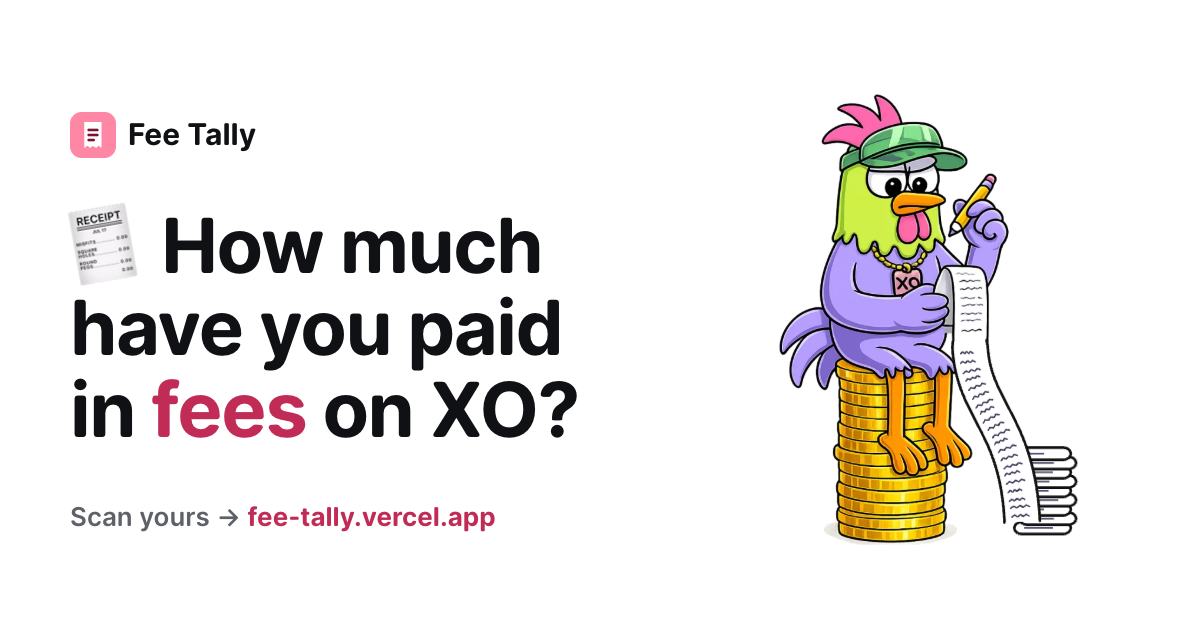
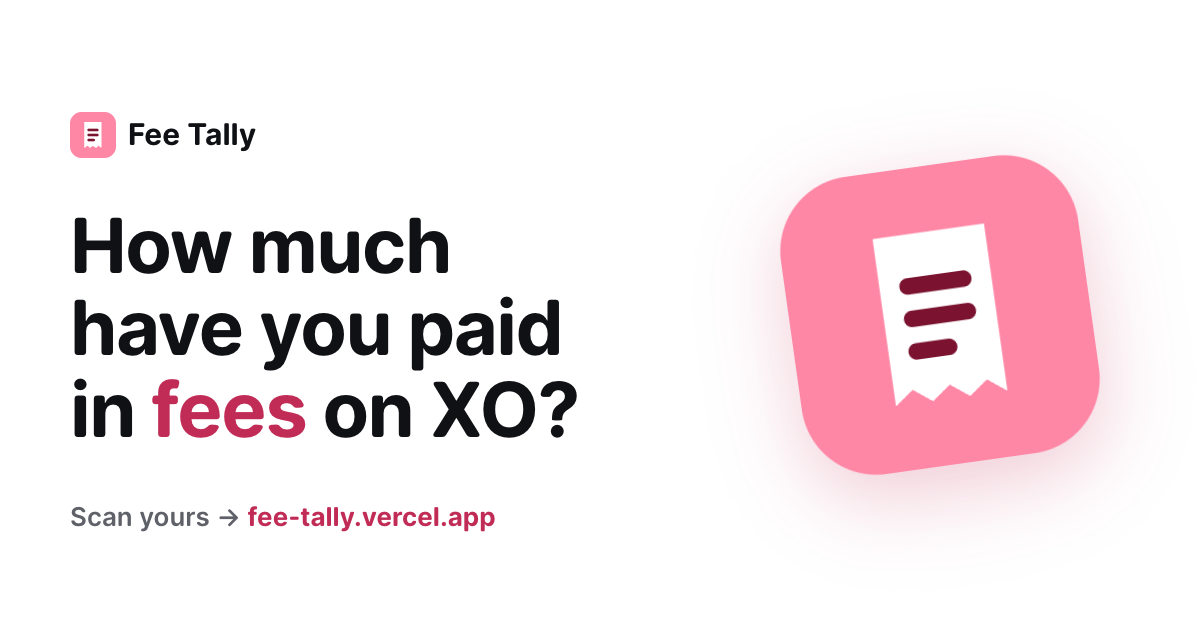
Mascot off for now: hero, card and link preview without it

Changed region(s): [[0.6475, 0.1508, 0.925, 0.8746], [0.0617, 0.3317, 0.4625, 0.4524]]

diff --git a/index.html b/index.html
@@ -93,9 +93,8 @@
   .btn svg { width: 16px; height: 16px; }
 
   /* hero */
-  .hero { margin-top: 20px; padding: 28px; display: grid; grid-template-columns: minmax(0,1fr) 330px; gap: 24px; align-items: center; position: relative; z-index: 5; }
+  .hero { margin-top: 20px; padding: 28px; display: grid; grid-template-columns: minmax(0,1fr); gap: 24px; position: relative; z-index: 5; }
   .hero-main { display: grid; gap: 18px; min-width: 0; }
-  .hero-art { align-self: stretch; display: grid; place-items: center; }
   .mascot { width: 330px; height: auto; aspect-ratio: 1; display: block; overflow: visible; } /* the rooster itself stays still: only his pencil hand and the receipt move */
   /* the pencil hand: an idle tap now and then, fast scribbling while the scan runs */
   .mascot .hand { transform-box: view-box; transform-origin: 720px 350px; animation: tap 3.2s ease-in-out infinite; }
@@ -108,8 +107,6 @@
   .fc-art .fold { fill: #fff; stroke: #111; stroke-width: 6; stroke-linejoin: round; }
   .mascot .fold { fill: #fff; stroke: #111; stroke-width: 6; stroke-linejoin: round; transform-box: fill-box; transform-origin: 50% 100%; animation: fold .35s cubic-bezier(.2,1.6,.4,1) both; }
   @keyframes fold { from { transform: scale(.6, .2); opacity: 0; } to { transform: none; opacity: 1; } }
-  @media (max-width: 860px) { .hero { grid-template-columns: minmax(0,1fr) 240px; } .mascot { width: 240px; } }
-  @media (max-width: 640px) { .hero { grid-template-columns: minmax(0,1fr); } .hero-art { order: -1; margin: -14px 0 -14px; } .mascot { width: 200px; } }
   h1 { font-size: clamp(28px, 4.6vw, 42px); line-height: 1.08; font-weight: 700; letter-spacing: -.02em; text-wrap: balance; max-width: 18ch; }
   h1 em { font-style: normal; color: var(--pink-text); }
   .lede { font-size: 15px; color: var(--ink-2); max-width: 56ch; }
@@ -200,15 +197,16 @@
   .fc-who b { display: block; font-size: 24px; font-weight: 700; letter-spacing: -.01em; }
   .fc-who small { display: block; font-size: 15px; color: var(--ink-3); font-weight: 500; }
   .fc-ava { width: 60px; height: 60px; border-radius: 50%; flex: none; object-fit: cover; background: var(--control); box-shadow: 0 0 0 3px var(--pink); display: grid; place-items: center; font-weight: 700; font-size: 24px; color: var(--ink-2); }
-  .fc-main { display: grid; grid-template-columns: 330px minmax(0,1fr); gap: 34px; min-height: 0; }
+  .fc-main { display: grid; grid-template-columns: minmax(0,1fr); min-height: 0; }
   .fc-art { position: relative; border-radius: 24px; background: linear-gradient(180deg, var(--pink-soft), var(--lav-soft)); display: grid; align-content: start; justify-items: center; overflow: hidden; }
   .fc-art svg { width: 330px; height: 330px; margin-top: 46px; overflow: visible; }
-  .fc-url { position: absolute; left: 0; right: 0; bottom: 26px; text-align: center; font-size: 17px; font-weight: 600; color: var(--ink-2); }
+  .fc-row { display: flex; align-items: baseline; gap: 16px; }
+  .fc-url { margin-left: auto; font-size: 17px; font-weight: 600; color: var(--ink-2); white-space: nowrap; }
   .fc-url b { color: var(--pink-text); }
   .fc-body { display: flex; flex-direction: column; min-width: 0; }
   .fc-kick { font-size: 15px; font-weight: 700; letter-spacing: .08em; text-transform: uppercase; color: var(--pink-text); }
-  .fc-big { font-size: 92px; font-weight: 700; letter-spacing: -.035em; line-height: 1; margin: 8px 0 10px; font-variant-numeric: tabular-nums; }
-  .fc-roast { font-size: 20px; line-height: 1.35; color: var(--ink-2); max-width: 38ch; }
+  .fc-big { font-size: 104px; font-weight: 700; letter-spacing: -.035em; line-height: 1; margin: 8px 0 10px; font-variant-numeric: tabular-nums; }
+  .fc-roast { font-size: 21px; line-height: 1.35; color: var(--ink-2); max-width: 60ch; }
   .fc-chips { display: flex; flex-wrap: wrap; gap: 8px; margin-top: 16px; }
   .fc-chips span { display: inline-flex; align-items: center; gap: 7px; height: 36px; padding: 0 14px; border-radius: 12px; background: var(--control); font-size: 15.5px; font-weight: 600; color: var(--ink); white-space: nowrap; }
   .fc-tiles { display: grid; grid-template-columns: repeat(4, minmax(0,1fr)); gap: 10px; margin-top: 18px; }
@@ -301,18 +299,6 @@
       </div>
     </div>
     <p class="status" id="status" role="status" aria-live="polite"></p>
-    </div>
-    <div class="hero-art" aria-hidden="true">
-      <!-- the accountant: the base picture minus his pencil hand, the receipt tape drawn on top (it grows with the scan), then the hand on its own so it can write -->
-      <svg class="mascot" viewBox="-20 -24 1064 1056">
-        <defs>
-          <clipPath id="noHand"><path clip-rule="evenodd" d="M-40 -40H1064V1064H-40Z M640 178 L782 178 L782 342 L748 350 L690 350 L622 338 L640 300 Z"/></clipPath>
-          <clipPath id="handOnly"><path d="M637 175 L785 175 L785 345 L749 353 L689 353 L619 340 L637 299 Z"/></clipPath>
-        </defs>
-        <image href="mascot/accountant.webp" width="1024" height="1024" clip-path="url(#noHand)"/>
-        <g id="pile"></g><g id="tape"></g>
-        <g class="hand"><image href="mascot/accountant.webp" width="1024" height="1024" clip-path="url(#handOnly)"/></g>
-      </svg>
     </div>
   </section>
 
@@ -536,6 +522,7 @@ async function run(raw) {
 const tape = (() => {
   const NS = "http://www.w3.org/2000/svg";
   const g = document.getElementById("tape"), pileG = document.getElementById("pile");
+  if (!g) return { snap() {}, reset() {}, progress() {} }; // mascot is off for now
   // the sheet's bottom edge in the picture (1024 px space) and the curve the tape follows down to the floor
   const L = [642, 578], R = [722, 575], W = Math.hypot(R[0] - L[0], R[1] - L[1]);
   const P0 = [(L[0] + R[0]) / 2, (L[1] + R[1]) / 2], P1 = [690, 720], P2 = [790, 750], P3 = [800, 972];
@@ -677,22 +664,6 @@ function roast(total, n) {
   return "Serious volume, serious receipts. The accountant needs a bigger desk.";
 }
 
-// the accountant with his final receipt, copied from the hero (pictures inlined so the PNG export keeps them)
-async function cardMascot() {
-  tape.snap();
-  const svg = document.querySelector(".hero .mascot").cloneNode(true);
-  svg.removeAttribute("class");
-  svg.querySelectorAll("[id]").forEach((el) => {
-    const id = el.id;
-    el.id = id + "-c";
-    svg.querySelectorAll(`[clip-path="url(#${id})"]`).forEach((u) => u.setAttribute("clip-path", `url(#${id}-c)`));
-  });
-  svg.querySelectorAll(".hand").forEach((h) => h.removeAttribute("class"));
-  const data = await mascotData();
-  if (data) svg.querySelectorAll("image").forEach((im) => im.setAttribute("href", data));
-  return svg.outerHTML;
-}
-
 function weeksSVG(weeks) {
   if (!weeks.size) return "";
   const keys = [...weeks.keys()].sort((a, b) => a - b), all = [];
@@ -726,9 +697,8 @@ async function render(p, lists) {
     }
   });
   const top = [...markets.values()].sort((a, b) => b.fee - a.fee)[0];
-  const [ava, art, topPic] = await Promise.all([
+  const [ava, topPic] = await Promise.all([
     p.profilePictureUrl ? toDataURL(p.profilePictureUrl.replace("_normal.", "_bigger.")).then((d) => d || toDataURL(p.profilePictureUrl)) : "",
-    cardMascot(),
     top && top.pic && !top.pic.includes("placeholder") ? toDataURL(top.pic) : "",
   ]);
   const since = first ? first.toLocaleDateString("en-US", { month: "short", day: "numeric", year: "numeric", timeZone: "UTC" }) : "Aug 12, 2026";
@@ -741,9 +711,8 @@ async function render(p, lists) {
       <div class="fc-who"><div><b>@${esc(p.username)}</b><small>Trading fees on XO Market</small></div>${ava ? `<img class="fc-ava" src="${ava}" alt="">` : `<span class="fc-ava">${esc((p.username[0] || "?").toUpperCase())}</span>`}</div>
     </div>
     <div class="fc-main">
-      <div class="fc-art">${art}<div class="fc-url">get yours → <b>${esc(host)}</b></div></div>
       <div class="fc-body">
-        <div class="fc-kick rv" style="--d:.15s">Total fees paid · since ${since}</div>
+        <div class="fc-row rv" style="--d:.15s"><div class="fc-kick">Total fees paid · since ${since}</div><div class="fc-url">get yours → <b>${esc(host)}</b></div></div>
         <div class="fc-big rv" style="--d:.25s" id="cardBig">${usd(total, 2)}</div>
         <div class="fc-roast rv" style="--d:.5s">${esc(roast(total, n))}</div>
         <div class="fc-chips">
